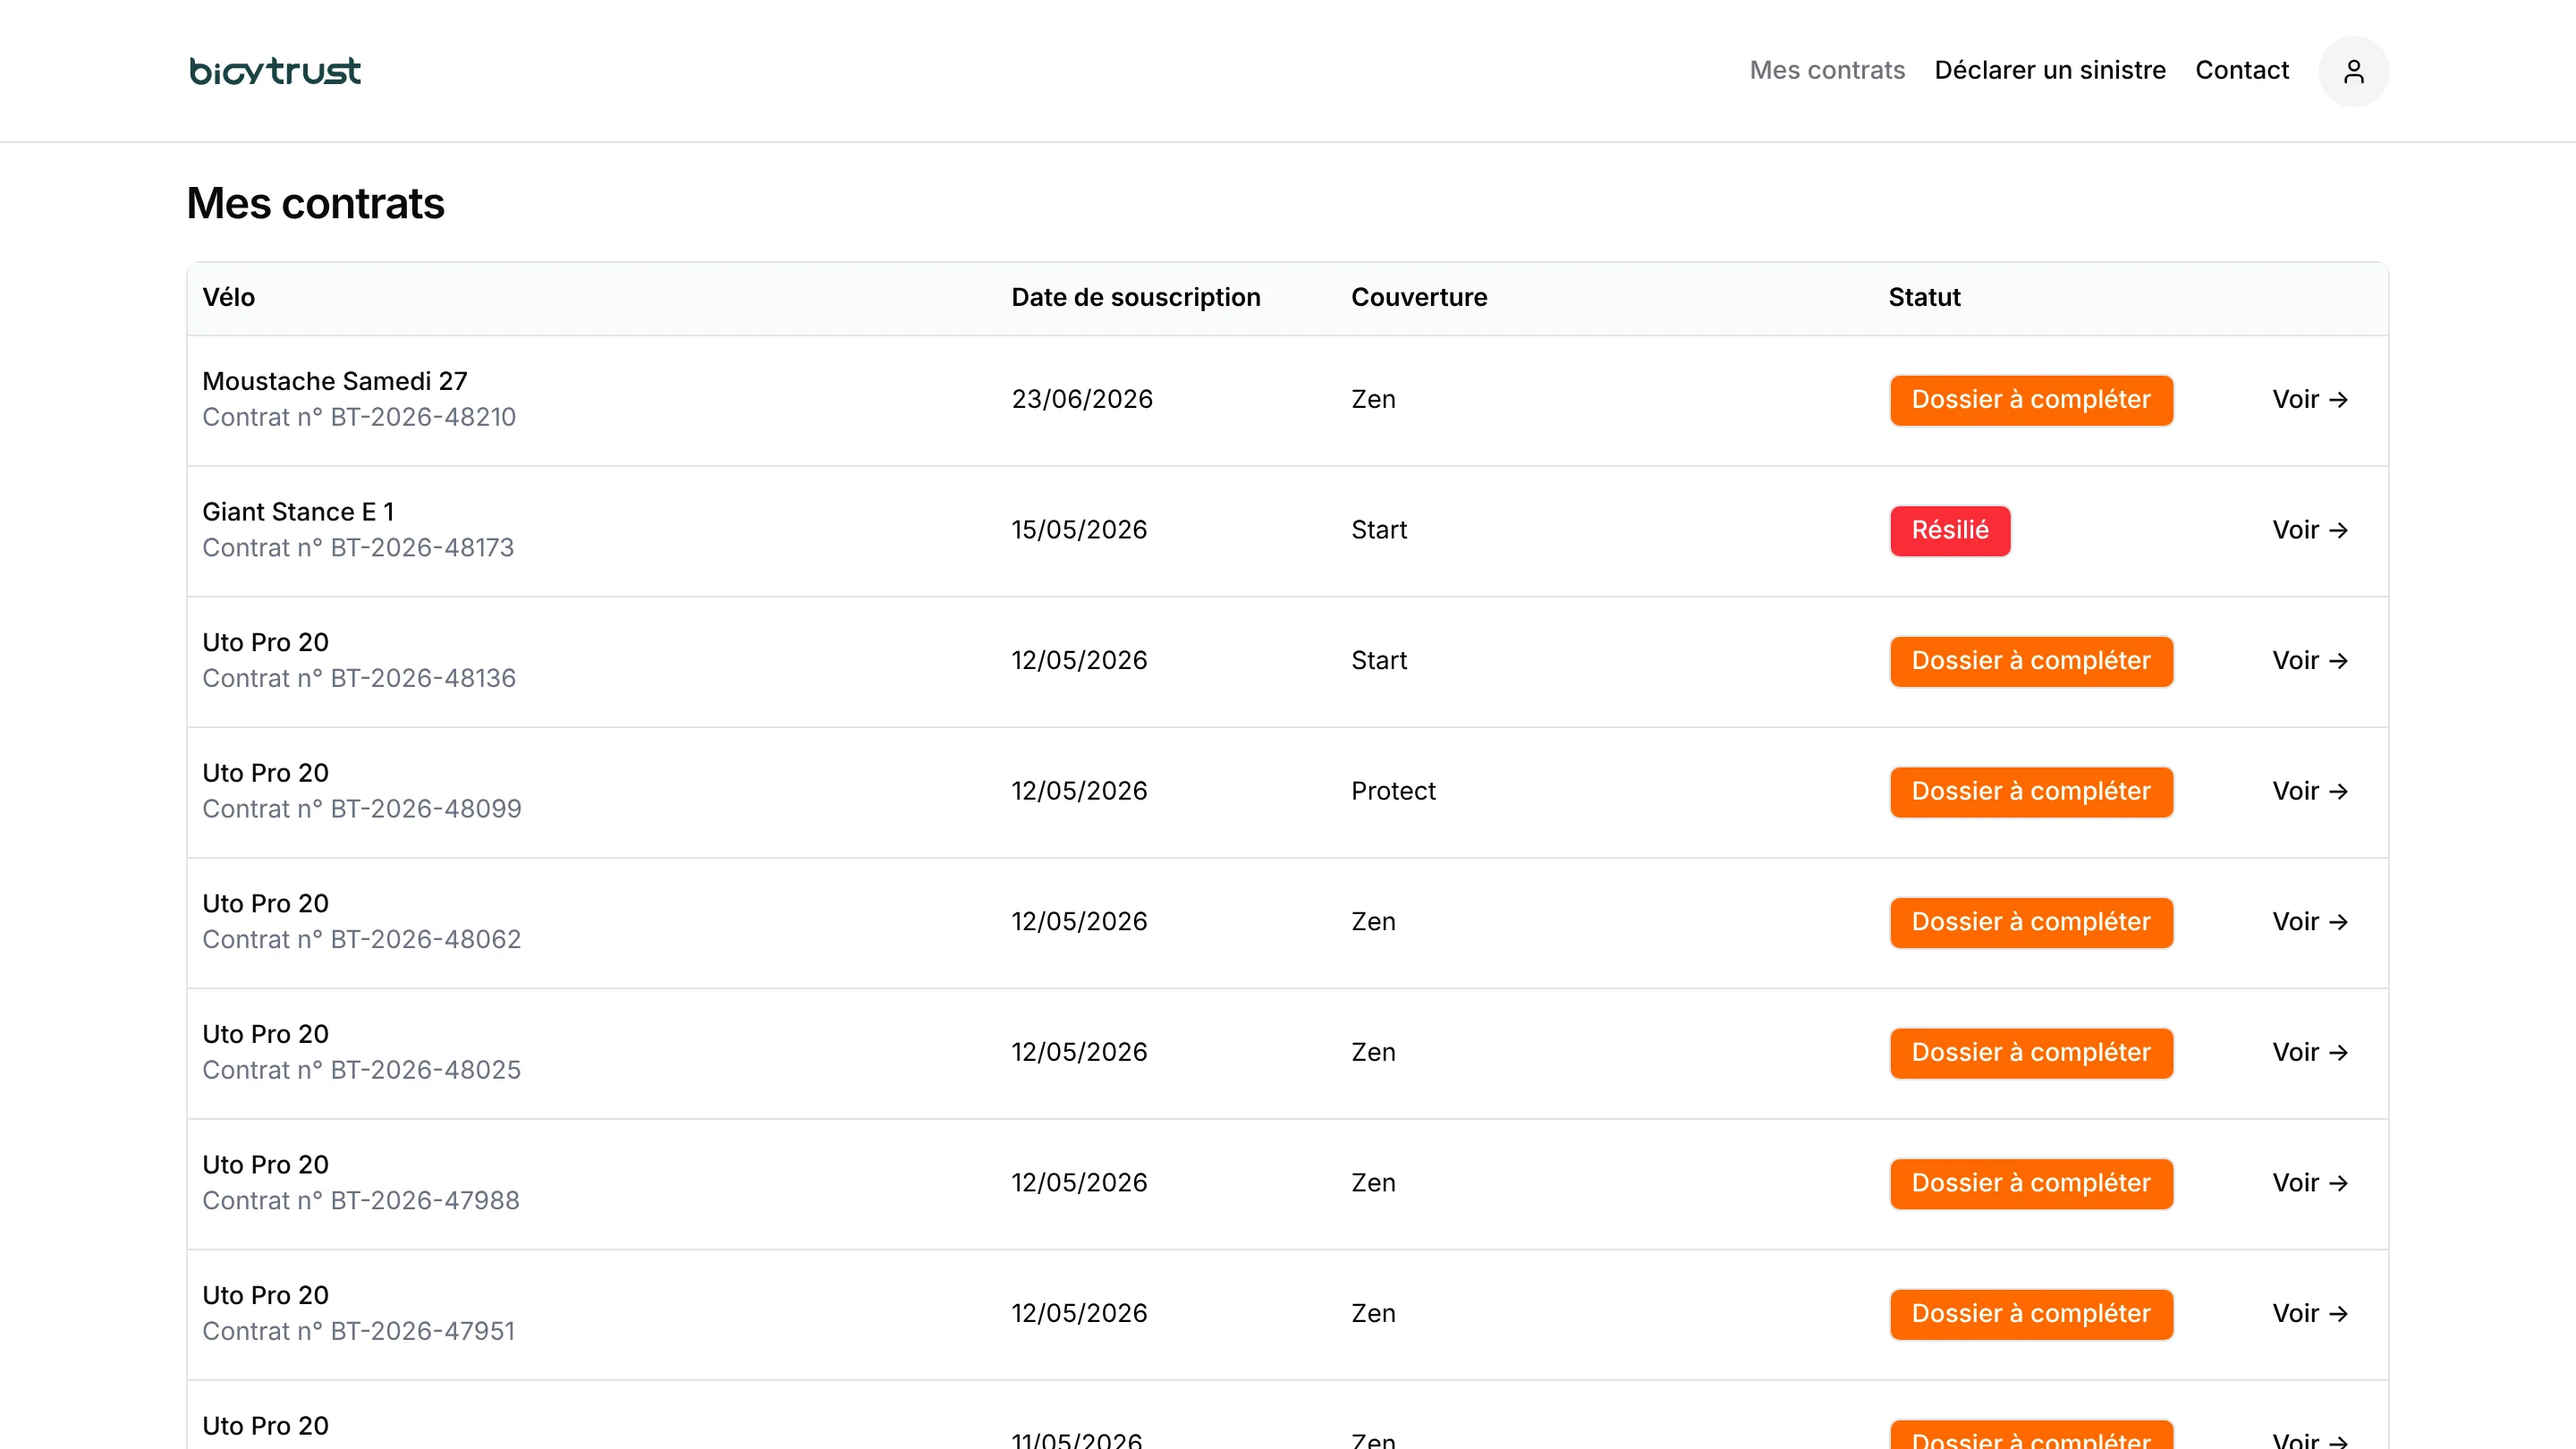
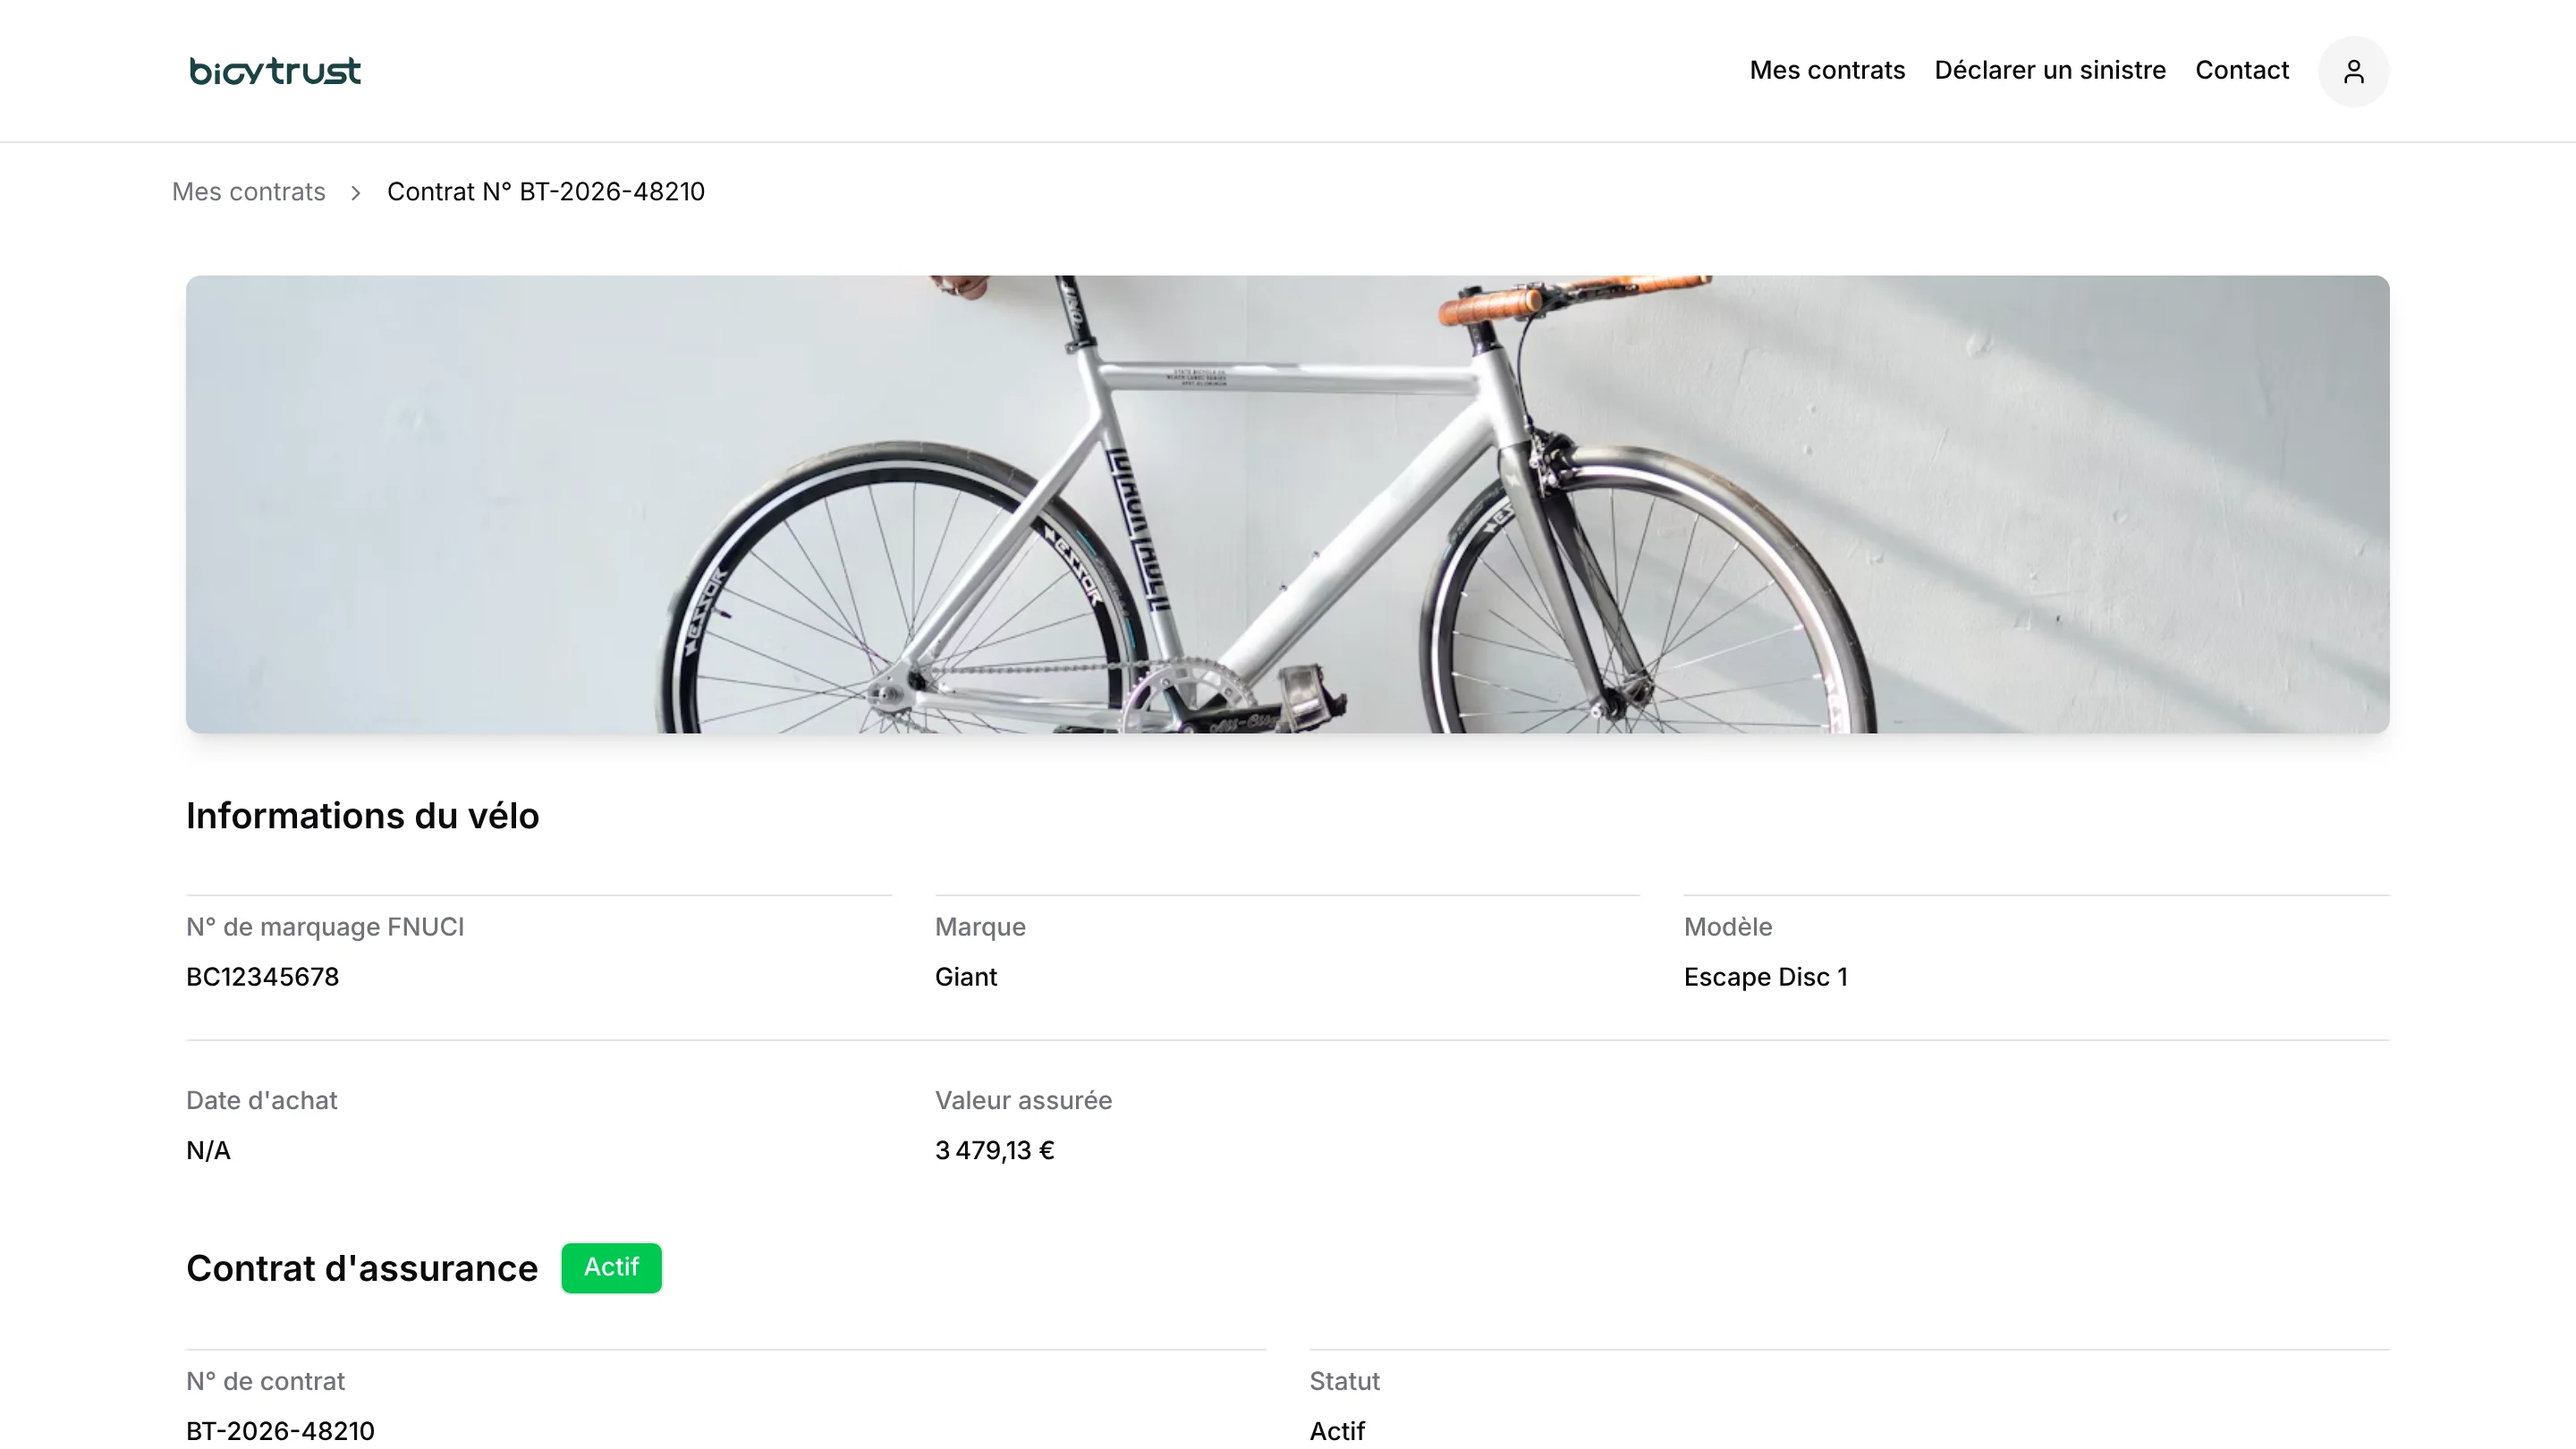
Use a contract page for the Bicytrust client space screenshot
Contract number and bike marking were swapped for fictitious ones in
the page before capture.

Claude-Session: https://claude.ai/code/session_01QeSzzBBARXCpWYCLhFPwjY

diff --git a/src/content/projects/bicytrust.md b/src/content/projects/bicytrust.md
@@ -29,7 +29,7 @@ gallery:
     title: Reseller space
     text: A bike shop insures the bike at the counter, right after the sale.
   - image: client
-    alt: Bicytrust client space listing contracts by bike, cover and status, with sample contract numbers
+    alt: Bicytrust client space showing a contract with the bike photo, bike details and an active status, with sample identifiers
     title: Client space
     text: Customers find their contracts and declare a claim on their own.
 caseStudy: true
